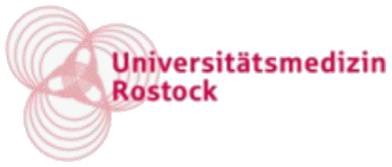
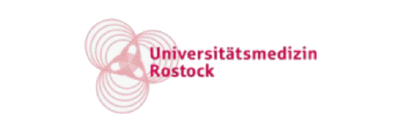
Kundenlogos optisch angeglichen; Produkt-Galerie auf 2 Reiter (Arztbrief zuerst, dann HL7-FHIR); Presse-Seite: Partner-/Auszeichnungslogos ergaenzt

Changed region(s): [[0.0, 0.0305, 1.0, 0.9771]]

diff --git a/index.html b/index.html
@@ -178,29 +178,16 @@
              worum es geht — vorher stand da nur "01 / 03". -->
         <div class="gallery__tabs" role="tablist" aria-label="Ansicht wählen" data-gallery-tabs>
           <button class="gallery__tab" type="button" role="tab" aria-selected="true"
-                  aria-label="Ansicht 1: Strukturierte Daten in HL7-FHIR"
-                  data-gallery-dot="1">HL7-FHIR</button>
+                  aria-label="Ansicht 1: KI-generierte Arztbriefe"
+                  data-gallery-dot="1">Arztbrief</button>
           <button class="gallery__tab" type="button" role="tab" aria-selected="false" tabindex="-1"
-                  aria-label="Ansicht 2: KI-generierte Arztbriefe"
-                  data-gallery-dot="2">Arztbrief</button>
-          <button class="gallery__tab" type="button" role="tab" aria-selected="false" tabindex="-1"
-                  aria-label="Ansicht 3: Digitale Aufnahmebögen"
-                  data-gallery-dot="3">Aufnahme</button>
+                  aria-label="Ansicht 2: Strukturierte Daten in HL7-FHIR"
+                  data-gallery-dot="2">HL7-FHIR</button>
         </div>
 
         <div class="gallery__stage" tabindex="0" role="group" aria-roledescription="Galerie" aria-label="Ansichten der myScribe App">
           <div class="gallery__slide is-active" data-gallery-slide="1">
-            <span class="gallery__media"><img class="gallery__img" src="https://marvscribe.github.io/my-scribe-site/visitenansicht.webp" alt="Tablet mit der Visitenansicht der myScribe App" decoding="async"></span>
-            <span class="gallery__scrim" aria-hidden="true"></span>
-            <div class="gallery__caption">
-              <span class="field-tag">HL7 · FHIR</span>
-              <h3>Strukturierte Daten in HL7-FHIR</h3>
-              <p>Dank HL7-FHIR zeigt myScribe Patientendaten aus allen Anwendungen blitzschnell an – und speist sie zurück, sodass keine Doppeldokumentation nötig ist.</p>
-            </div>
-            <span class="gallery__status"><span class="live-dot" aria-hidden="true"></span>Live aus dem FHIR-Server</span>
-          </div>
-          <div class="gallery__slide" data-gallery-slide="2" aria-hidden="true">
-            <span class="gallery__media"><img class="gallery__img" src="https://marvscribe.github.io/my-scribe-site/ki-arztbrief.webp" alt="Tablet mit einer KI-generierten Epikrise für einen Arztbrief" loading="lazy" decoding="async"></span>
+            <span class="gallery__media"><img class="gallery__img" src="https://marvscribe.github.io/my-scribe-site/ki-arztbrief.webp" alt="Tablet mit einer KI-generierten Epikrise für einen Arztbrief" decoding="async"></span>
             <span class="gallery__scrim" aria-hidden="true"></span>
             <div class="gallery__caption">
               <span class="field-tag">Epikrise</span>
@@ -209,13 +196,13 @@
             </div>
             <span class="gallery__status"><span class="live-dot" aria-hidden="true"></span>Live aus dem FHIR-Server</span>
           </div>
-          <div class="gallery__slide" data-gallery-slide="3" aria-hidden="true">
-            <span class="gallery__media"><img class="gallery__img" src="https://marvscribe.github.io/my-scribe-site/patientenaufnahme.webp" alt="Tablet mit einem digitalen Aufnahmeformular zur Patientenaufnahme" loading="lazy" decoding="async"></span>
+          <div class="gallery__slide" data-gallery-slide="2" aria-hidden="true">
+            <span class="gallery__media"><img class="gallery__img" src="https://marvscribe.github.io/my-scribe-site/visitenansicht.webp" alt="Tablet mit der Visitenansicht der myScribe App" loading="lazy" decoding="async"></span>
             <span class="gallery__scrim" aria-hidden="true"></span>
             <div class="gallery__caption">
-              <span class="field-tag">Aufnahme</span>
-              <h3>Digitale Aufnahmebögen nach Ihren Anforderungen</h3>
-              <p>Digitale Aufnahme, gespeichert direkt in App und KIS – konfigurierbar für jede Fachrichtung.</p>
+              <span class="field-tag">HL7 · FHIR</span>
+              <h3>Strukturierte Daten in HL7-FHIR</h3>
+              <p>Dank HL7-FHIR zeigt myScribe Patientendaten aus allen Anwendungen blitzschnell an – und speist sie zurück, sodass keine Doppeldokumentation nötig ist.</p>
             </div>
             <span class="gallery__status"><span class="live-dot" aria-hidden="true"></span>Live aus dem FHIR-Server</span>
           </div>

diff --git a/presse.html b/presse.html
@@ -53,6 +53,14 @@
       <h2 style="font-size:var(--step-l); margin-bottom:var(--space-s); max-width:24ch;">Unsere Pressemitteilungen</h2>
       <p class="muted" style="font-size:var(--step-body-l); font-weight:300; max-width:52ch;">Auszeichnungen, Termine und Meilensteine – von der EXIST-Förderung bis zum Gespräch mit dem Bundesgesundheitsminister.</p>
     </div>
+    <div class="container container--narrow" data-reveal style="margin-top:var(--space-m);">
+      <p class="eyebrow" style="text-align:center; margin-bottom:var(--space-s);">Partner &amp; Auszeichnungen</p>
+      <div style="display:flex; align-items:center; justify-content:center; gap:3.5rem; flex-wrap:wrap;">
+        <div class="partners__item"><img class="partners__logo" src="https://marvscribe.github.io/my-scribe-site/handelsblatt.avif" alt="Handelsblatt" loading="lazy"></div>
+        <div class="partners__item"><img class="partners__logo" src="https://marvscribe.github.io/my-scribe-site/entscheiderfabrik.avif" alt="Entscheiderfabrik" loading="lazy"></div>
+        <div class="partners__item"><img class="partners__logo" src="https://marvscribe.github.io/my-scribe-site/akg-innovationspreis.avif" alt="AKG Innovationspreis 2025" loading="lazy"></div>
+      </div>
+    </div>
     <div class="container" style="margin-top:var(--space-l);">
       <div class="press-filter" data-press-filter aria-label="Nach Jahr filtern"></div>
       <div class="press-grid" data-reveal data-press-grid>

diff --git a/components.css b/components.css
@@ -2460,7 +2460,8 @@ input[type="range"]::-moz-range-thumb {
    die Ansichten sagten nicht, was sie zeigen. */
 .gallery__tabs {
   display: grid;
-  grid-template-columns: repeat(3, minmax(0, 1fr));
+  grid-auto-flow: column;
+  grid-auto-columns: minmax(0, 1fr);
   gap: 0.25rem;
   padding: 0.35rem 0;
   border-top: 1px solid var(--line);
